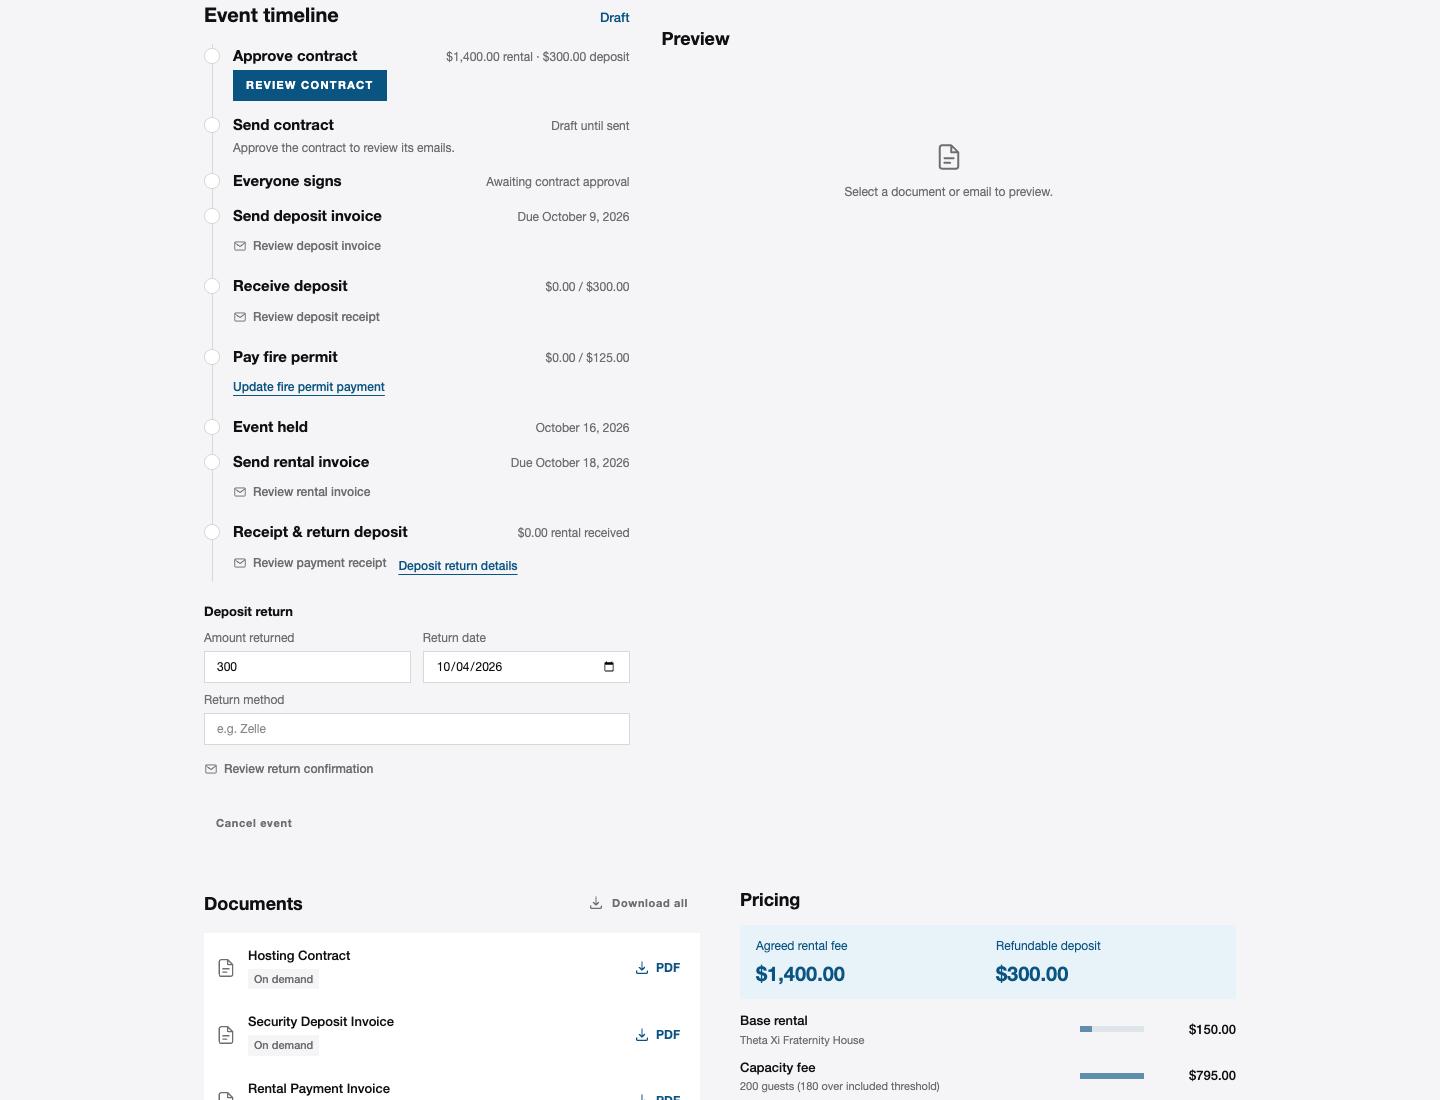
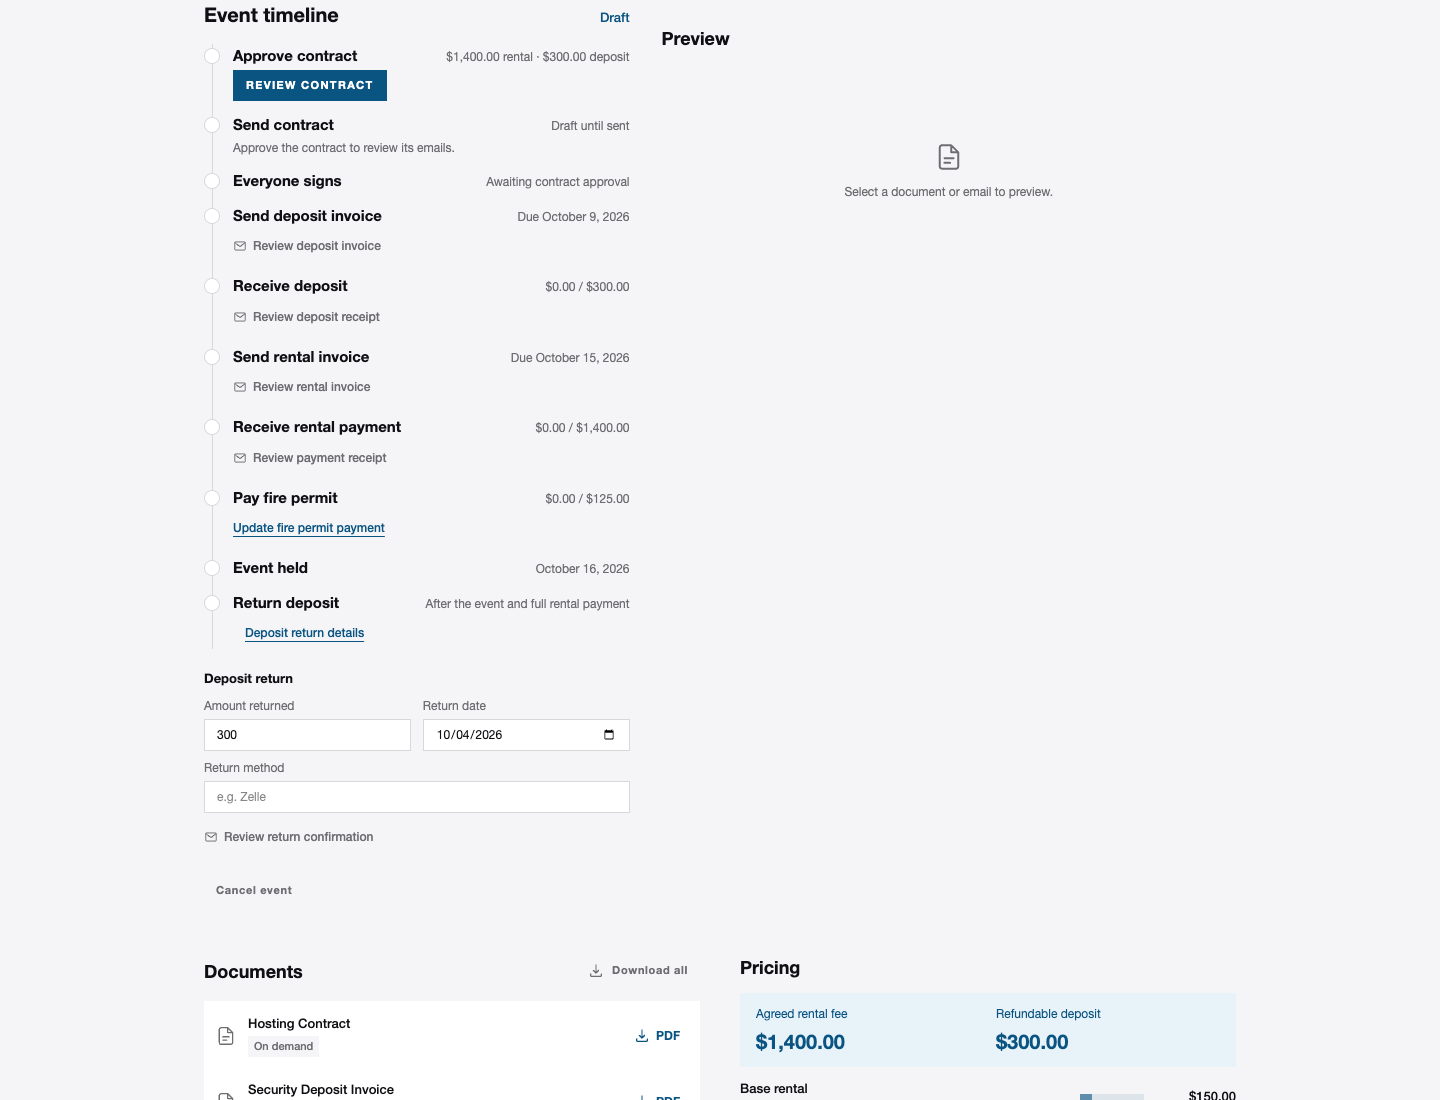
Refresh contract flow review against current main

diff --git a/.impeccable/surfaces/app-admin-host-orders-id-page-tsx.md b/.impeccable/surfaces/app-admin-host-orders-id-page-tsx.md
@@ -59,10 +59,12 @@ One batched loopback fixture inspection covered desktop (1440px), tablet (768px)
 
 The order timeline now starts with **Review contract**, followed by approval of the exact stored PDF, automatic personal email review, and a separate explicit send. An approved, unsent agreement offers **Review emails** directly without preparing another revision. The order remains Draft until sending. Saving and downloading do not approve or send anything. The editor's approval action also continues to email review. Edit order is secondary to the next contract action. Missing representative details offer **Edit representatives** through the existing separate draft. Current signed and sent agreements retain their original PDFs, personal links, progress, and reminders.
 
-The direct review reuses the saved-order freshness checks and signing approval guards. Changed preview inputs restore the review action. Active and uncertain signing requests are never automatically replaced by review. Timeline polling pauses during contract review. Cancel is disabled during review, and cancelled events cannot prepare or approve contracts through the server actions. Existing request recovery remains available. This change does not include the separate payment-date work.
+The direct review reuses the saved-order freshness checks and signing approval guards. Changed preview inputs restore the review action. Active and uncertain signing requests are never automatically replaced by review. Timeline polling pauses during contract review. Cancel is disabled during review, and cancelled events cannot prepare or approve contracts through the server actions. Existing request recovery remains available. Current main includes the separate payment-date work. This approval-flow change preserves those date helpers and each saved agreement’s payment terms.
 
 Thirty targeted signing, event, email, and preview-cache tests passed. TypeScript and the webpack production build passed; the isolated worktree build reported absent Supabase configuration during unrelated static collection and exited successfully. Scoped ESLint passed with the existing full-page navigation warning in WorkspaceActions. The independent code review found no remaining blockers.
 
-Browser checks used only the loopback fixture at desktop 1440px and mobile 390px. Direct review opened the stored revision PDF; approval opened email review with no invitations sent; resuming an approved draft retained its revision; a separate simulated send changed the stage to Sent. Missing-email repair and disabled cancellation during review passed. Neither viewport had horizontal overflow. No live email, signing request, or order was changed. The final evidence compares the same sample draft: [desktop before](../../docs/screenshots/contract-flow/before-desktop.png), [desktop after](../../docs/screenshots/contract-flow/after-desktop.png), [mobile before](../../docs/screenshots/contract-flow/before-mobile.png), and [mobile after](../../docs/screenshots/contract-flow/after-mobile.png). These are captured fixture screenshots, not shipping product images or evidence of live delivery. Manual finish verdict: ship this scoped flow for review; no global design tokens changed.
+Browser checks used only the loopback fixture at desktop 1440px and mobile 390px. Direct review opened the stored revision PDF; approval opened email review with no invitations sent; resuming an approved draft retained its revision; a separate simulated send changed the stage to Sent. Missing-email repair and disabled cancellation during review passed. Neither viewport had horizontal overflow. No live email, signing request, or order was changed. The comparison captures use local sample drafts: [desktop before](../../docs/screenshots/contract-flow/before-desktop.png), [desktop after](../../docs/screenshots/contract-flow/after-desktop.png), [mobile before](../../docs/screenshots/contract-flow/before-mobile.png), and [mobile after](../../docs/screenshots/contract-flow/after-mobile.png). These are captured fixture screenshots, not shipping product images or evidence of live delivery. Manual finish verdict: ship this scoped flow for review; no global design tokens changed.
 
 The single scoped type/layout detector pass reported 19 font-size findings against the separate public-site DESIGN.md ramp. This private administrator surface intentionally retains its established 11–15px operational text, as this brief requires. No layout findings appeared, and no public typography rules or global tokens changed.
+
+After merging origin/main at 21eb08a, all 34 combined signing, payment-date, event, email, and preview-cache tests passed. TypeScript, the production webpack build, and scoped ESLint passed, retaining the existing callback dependency and navigation warnings. Before screenshots use the original c614e2a baseline. The two After screenshots were refreshed once at 1440px and 390px after the main merge, with no overflow or sent activity. Their fresh sample uses day_before: rental payment is due October 15 before the October 16 event. Both date policies remain covered by the combined tests. The matching contract-service release remains a separate dependency; no live payment-date behavior was verified.
